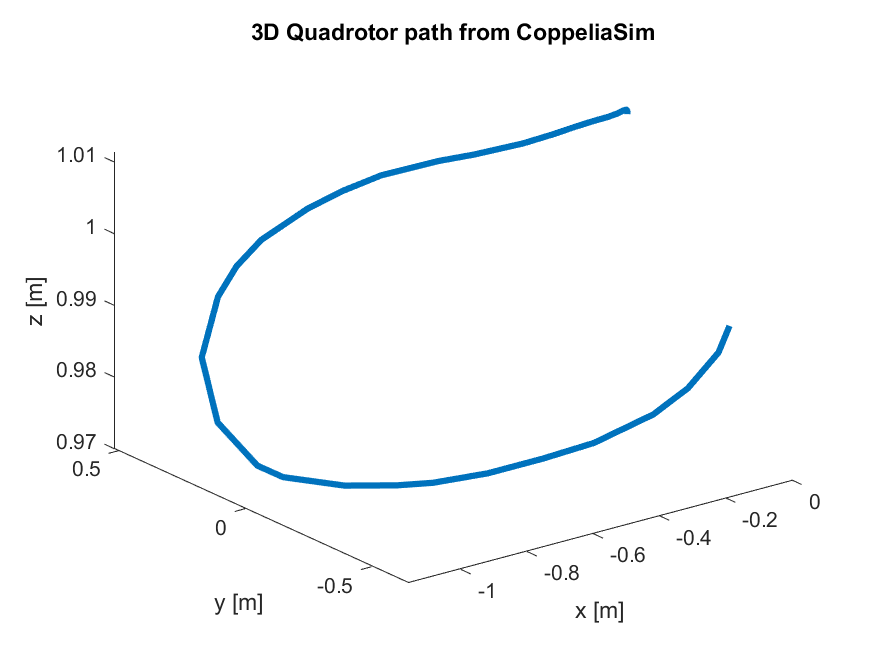
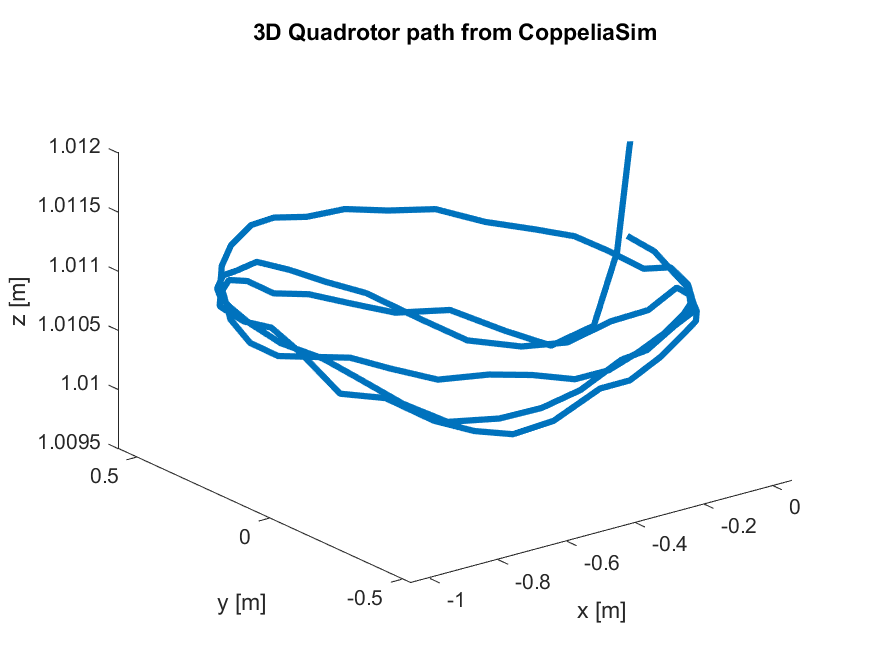
Success!!

diff --git a/ECE8_Robotics/Lab4/Part2v3.m b/ECE8_Robotics/Lab4/Part2v3.m
@@ -36,12 +36,12 @@ if (ret_status == 0)
     k = 1;
     targX =0;
     targXinv =0;
-    targZ =0
-    targZinv =0
+    targZ =0;
+    targZinv =0;
     
 
     % Set a tolerance bc we can't get to targets without an overshoot
-    err = 0.1;
+    err = 0.25;
     % While sim is on
     while(sim.simxGetConnectionId(clientID) ~= -1)
 
@@ -53,45 +53,94 @@ if (ret_status == 0)
         p_z = [p_z; quad_pos(3)];
 
         % Tell Target to move, if statements in xz
-        %       x(0,1) z=1
-        %       x=1    z(1,2)
-        %       x(1,0) z=2
-        %       x=0    z(2,1)
+        % x moves: 0 -> 1
+        %  0<x<1        z = 1       y = 0 
+        % z moves: 1 -> 2
+        %    x = 1    1<z<2         y = 0
+        % x moves: 1 -> 0
+        %  1>x>0        z = 2       y = 0
+        % z moves: 2 -> 1
+        %   x = 0     2<z<1         y = 0
 
         % Set constant 
         p_y_star = 0; 
 
-        % p_x_star
-        if(p_x<1-err && p_z <= 1)
-            p_z_star = 1;
-            targX =1;
-            targXinv =0;
-        elseif(p_x+err>=1 && p_z+err<=2)
-            p_x_star = 1;
-            targZ =2; 
-            targZinv =1;
-        elseif(p_x+err>=1 && p_z+err>=2)
-            p_z_star = 2;
-            targX = 1;
-            targXinv =0; 
-        else
-            p_x_star =0;
-            targZ = 1
-            targZinv = 2 
-        end
+        if(quad_pos(1) <= 1 && quad_pos(3) < 2-err)
+            % px < 1.05  && pz < 2.05  at (1,0,1)
+                targX    = 1+err; 
+                targXinv = 0;
+                p_z_star = 1; 
+                p_x_star = i/(i+1)*targX + 1/(i+1)*targXinv;
+                i = i + 0.0001;
+        elseif(quad_pos(1) > 1 && quad_pos(3) < 2)
+                targZ    = 2+err;
+                targZinv = 1; 
+                p_x_star = 1;
+                p_z_star = i/(i+1)*targZ + 1/(i+1)*targZinv;
+                i = i + 0.0001;
+        elseif(quad_pos(1) > 0 && quad_pos(3) >= 2)
+                targX    = 0-err+0.01; 
+                targXinv = 1; 
+                p_z_star = 2; 
+                p_x_star = j/(j+1)*targX + 1/(j+1)*targXinv;
+                j = j + 0.0001;
+                % (0-0.25,  0,  2)
+        elseif( quad_pos(1) < 0 && quad_pos(3) > 1 )
+                p_x_star = 0; 
+                p_z_star = 1; 
+                position = [p_x_star,p_y_star,p_z_star];
+                [returnCode] = setObjectPosition(sim, clientID, target, position);
+                pause(1)
+                % targZ    = 1;
+                % targZinv = 2;
+                % p_x_star = 0;
+                % p_z_star = j/(j+1)*targZ + 1/(j+1)*targZinv;
+                % j = j + 0.0001;
+        end 
         
 
-        p_x_star = i/(i+1)*targX + 1/(i+1)*targXinv;
-        p_z_star = i/(i+1)*targZ + 1/(i+1)*targZinv;
+        % p_x_star = i/(i+1)*targX + 1/(i+1)*targXinv;
+        % p_z_star = i/(i+1)*targZ + 1/(i+1)*targZinv;
         position = [p_x_star,p_y_star,p_z_star];
-        i = i + 0.1;
-
-        % Send to target
         [returnCode] = setObjectPosition(sim, clientID, target, position);
+        %-------------------------------------------------------------------------
+
+        % position = [0,0,2]
+
+        % % Send to target
+        % [returnCode] = setObjectPosition(sim, clientID, target, position);
+
+        
+        % position = [1,0,2]
+
+        % % Send to target
+        % [returnCode] = setObjectPosition(sim, clientID, target, position);
+
+        % pause(1)
+        % position = [1,0,1]
+
+        % % Send to target
+        % [returnCode] = setObjectPosition(sim, clientID, target, position);
+
+        % pause(1)
+        % position = [0,0,1]
+
+        % % Send to target
+        % [returnCode] = setObjectPosition(sim, clientID, target, position);
+
+
+        % [returnCode, quad_pos] = getObjectPosition(sim, clientID, Quad, 0);
+        % p_x = [p_x; quad_pos(1)];
+        % p_y = [p_y; quad_pos(2)];
+        % p_z = [p_z; quad_pos(3)];
+
+        % pause(10)
+
+        
 
 
         % Make sure to add some delay...
-        pause(0.15) % This delay will be computer dependent
+        %pause(0.15) % This delay will be computer dependent
         
     end
     
@@ -101,4 +150,17 @@ if (ret_status == 0)
 else
     disp('Unable to connect to CopelliaSim')
 end
-
+positions = [p_x, p_y, p_z];
+figure(1)
+plot3(positions(:,1),positions(:,2),positions(:,3),'linewidth',3);
+title('3D Quadrotor path from CoppeliaSim')
+xlabel('x [m]')
+ylabel('y [m]')
+zlabel('z [m]')
+saveas(gcf,'Part2_3d.png');
+figure(2)
+plot(positions(:,1),positions(:,3))
+title('2D Quadrotor path from CoppeliaSim')
+xlabel('x [m]')
+ylabel('z [m]')
+saveas(gcf,'Part2_2d.png');

diff --git a/ECE8_Robotics/Lab4/Part2v2.m b/ECE8_Robotics/Lab4/Part2v2.m
@@ -61,7 +61,7 @@ if (ret_status == 0)
             targZinv =3;
         end
 
-        p_z_star = i/(i+1)*targZ + 1/(i+1)*targZinv;
+        p_z_star = 1/(i+1)*targZinv + i/(i+1)*targZ;
         position = [p_x_star,p_y_star,p_z_star];
         i = i + 0.1;
 
